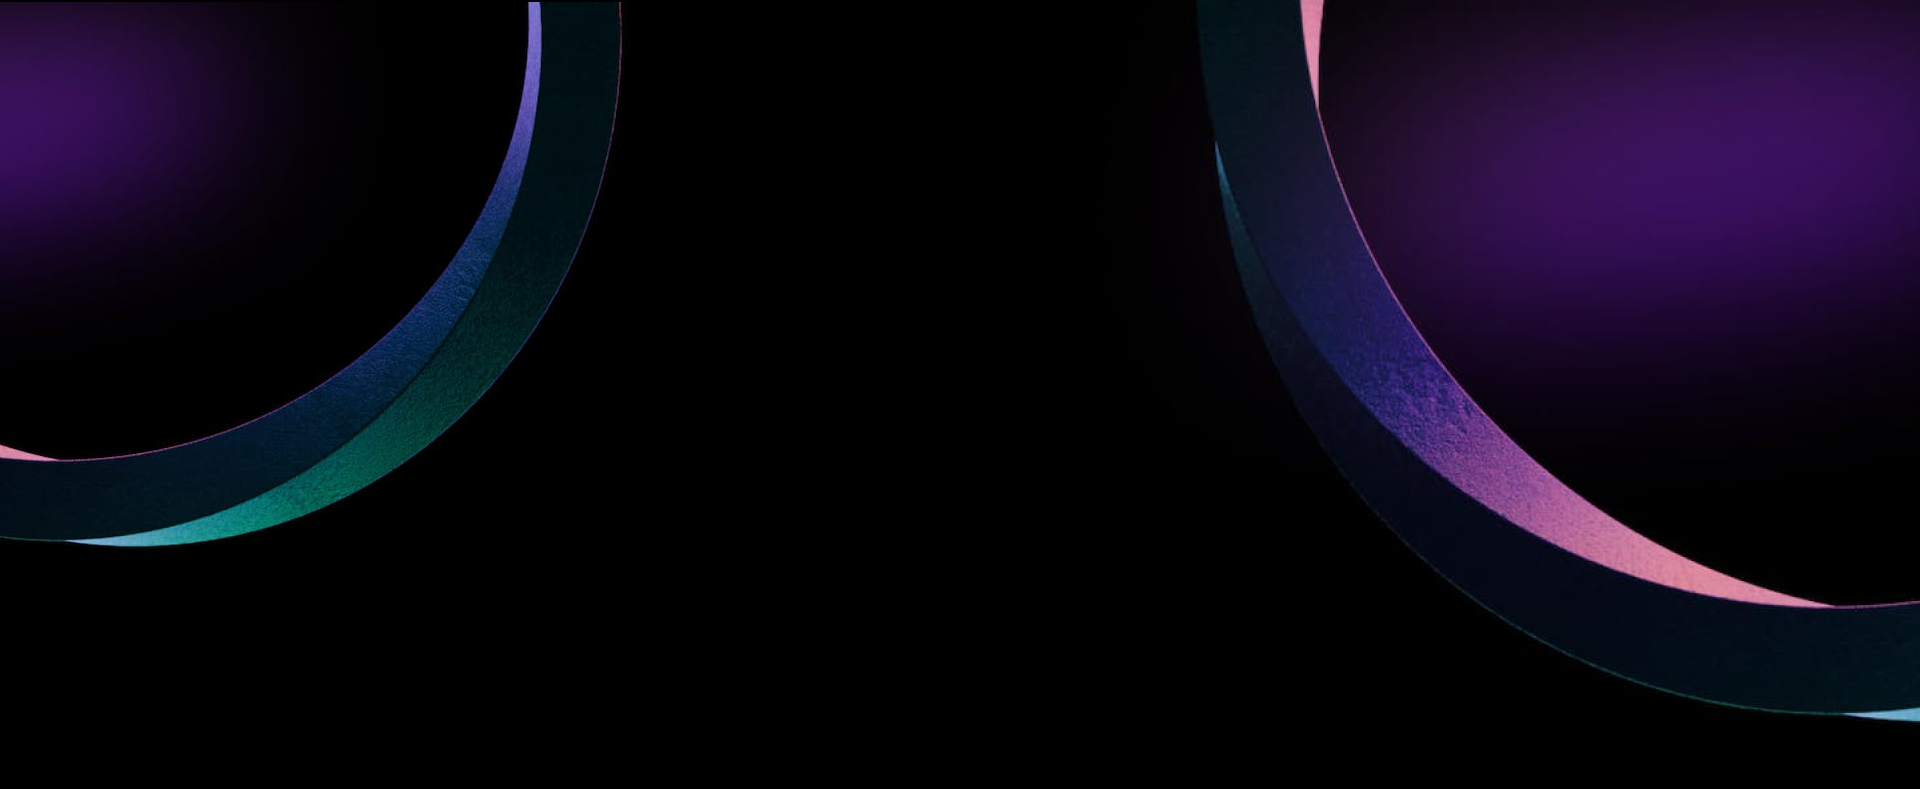
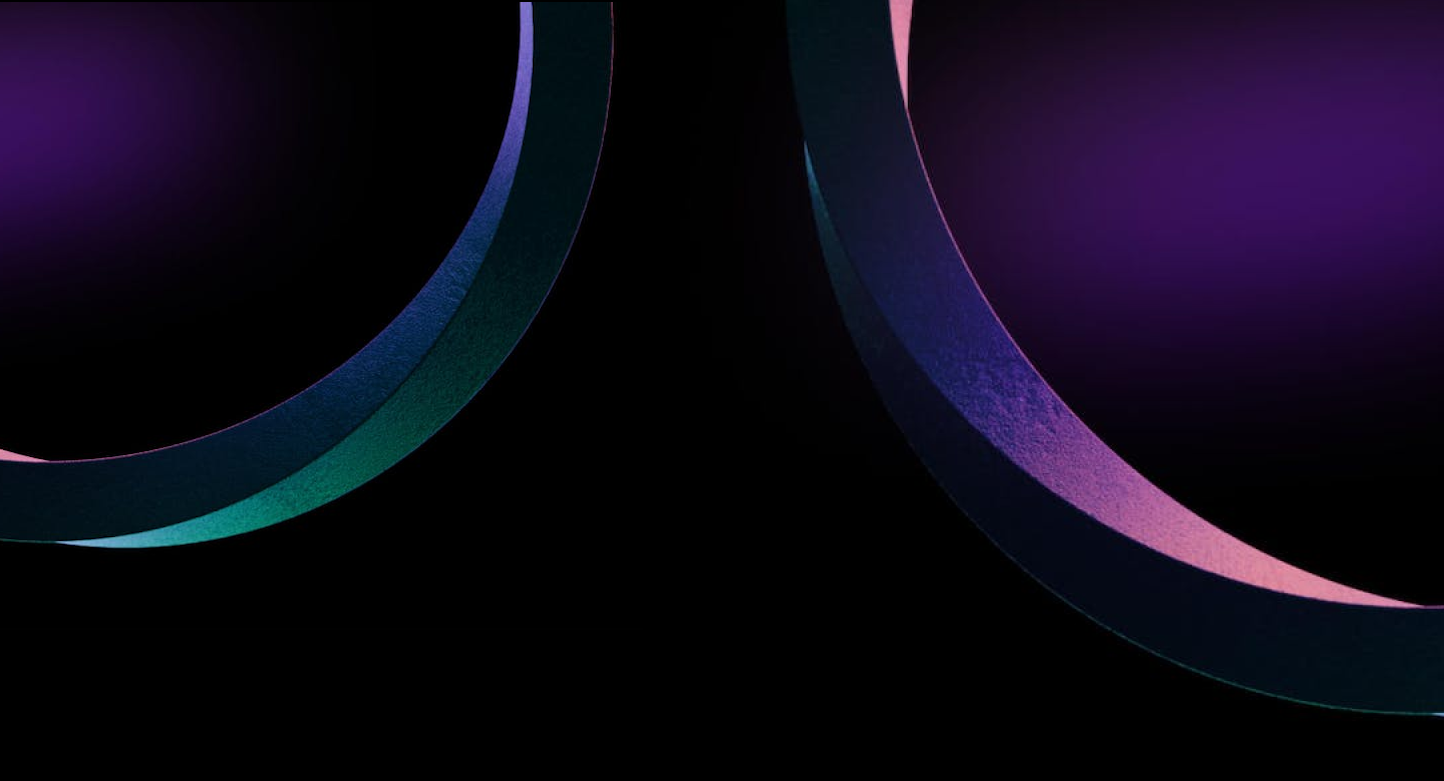
incre incre incre
incre incre incre

diff --git a/src/pages/css/Home.css b/src/pages/css/Home.css
@@ -6,8 +6,7 @@
   left: 0;
   width: 100%;
   height: 100vh; /* Full viewport height */
-  background-size: cover; /* Cover the entire section */
-  background-position: center; /* Center the image */
+  background-size: auto; /* Cover the entire section */
   background-repeat: no-repeat; /* Prevent image repetition */
   background-attachment: fixed; /* Optional: For parallax effect */
 }
@@ -24,7 +23,7 @@
   }
 }
 
-@media (min-width: 1400px) {
+@media (min-width: 1200px) {
   .section-1 {
     background-image: url("../../assets/img/back.png"); /* Image for desktops */
   }
